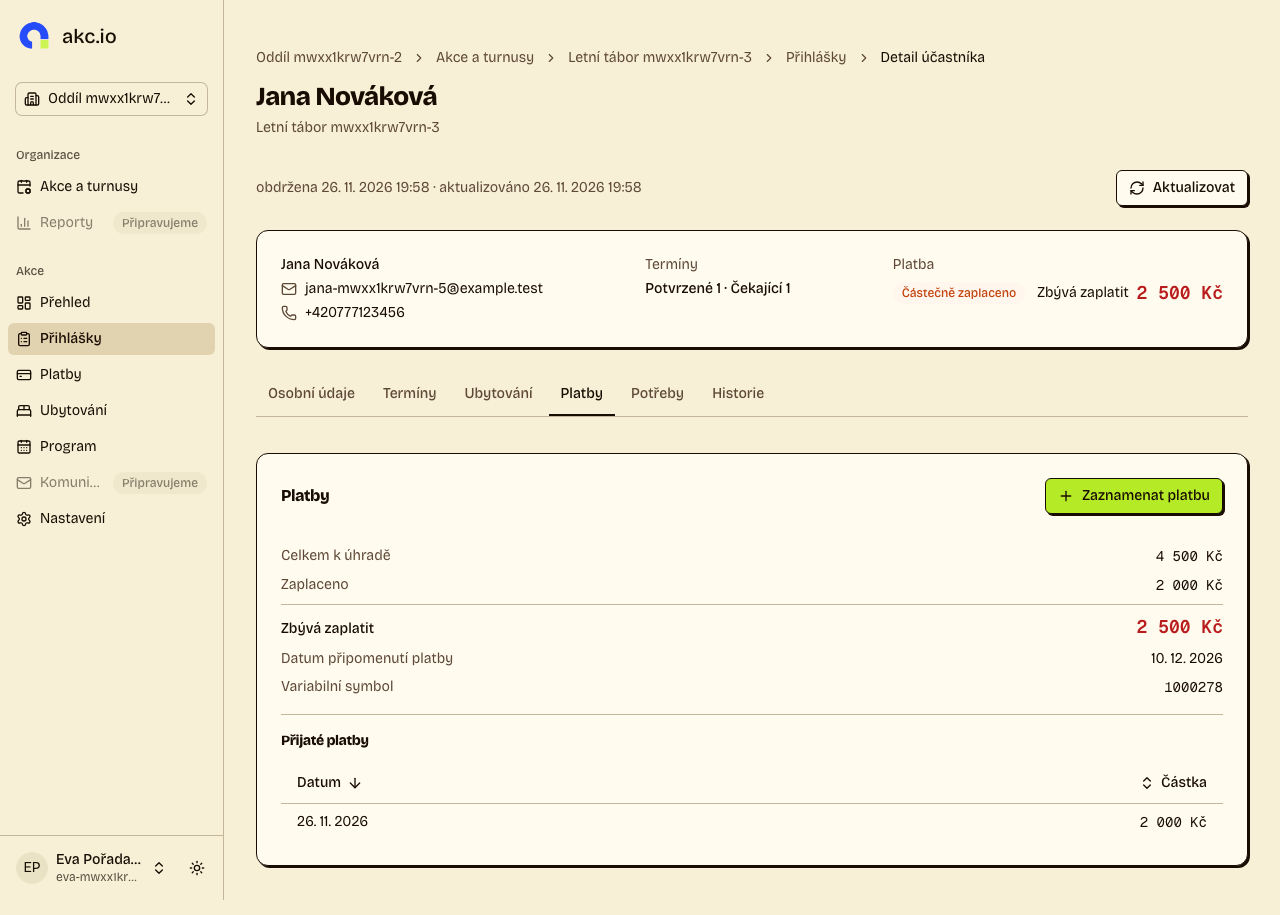
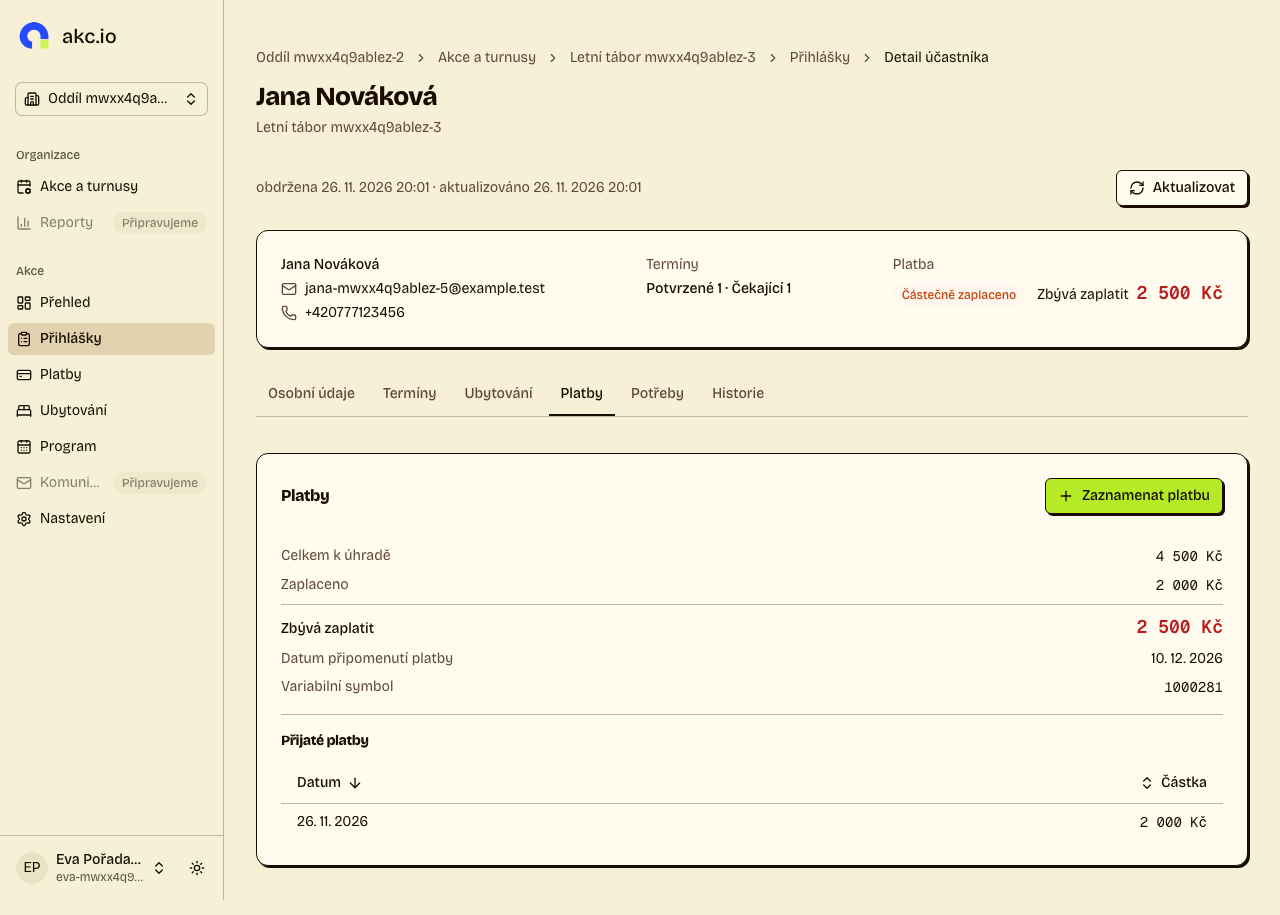
fix(registrations): put the payment state, label and amount on one baseline

diff --git a/apps/frontend/src/features/registrations/components/RegistrationDetail.tsx b/apps/frontend/src/features/registrations/components/RegistrationDetail.tsx
@@ -259,10 +259,10 @@ function RegistrationSummary({ registration }: { registration: Detail }) {
           </div>
           <div className="space-y-1 text-sm">
             <p className="text-muted-foreground">Platba</p>
-            <div className="flex flex-wrap items-center gap-3">
+            <div className="flex flex-wrap items-baseline gap-3">
               <PaymentStateBadge state={registration.paymentState} />
               {hasObligation ? (
-                <span className="flex items-center gap-2">
+                <span className="flex items-baseline gap-2">
                   <span>{isOverpaid ? "Přeplatek" : "Zbývá zaplatit"}</span>
                   <BalanceAmount
                     amount={formatCzk(Math.abs(registration.balanceMinor))}
